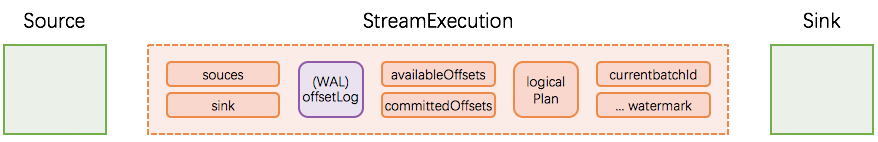
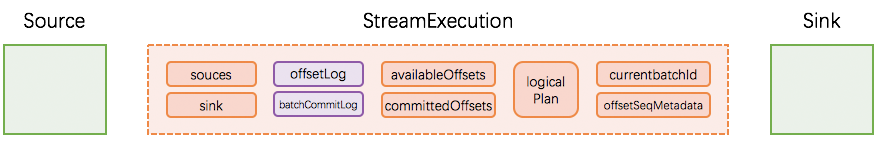
根据 Spark 2.1.1, 2.2.0 的新变化更新 Structured Streaming 源码解析

Changed region(s): [[0.2153, 0.4225, 0.4305, 0.8451], [0.6765, 0.7042, 0.7995, 0.7887], [0.3998, 0.4225, 0.4305, 0.4789]]

diff --git a/Structured Streaming 源码解析系列/2.2 Structured Streaming 之 Sink 解析.md b/Structured Streaming 源码解析系列/2.2 Structured Streaming 之 Sink 解析.md
@@ -6,7 +6,8 @@
 
 ```
 本文内容适用范围：
-* 2016.12.28 update, Spark 2.1 全系列 √ (已发布：2.1.0, 开发中：2.1.1-SNAPSHOT)
+* 2017.05.07 update, Spark 2.2 全系列 √ (即将发布：2.2.0)
+* 2017.05.02 update, Spark 2.1 全系列 √ (已发布：2.1.0, 2.1.1)
 ```
 
 
@@ -29,11 +30,12 @@ trait Sink {
 
 相比而言，前作 Spark Streaming 并没有对输出进行特别的抽象，而只是在 DStreamGraph [2] 里将一些 dstreams 标记为了 output。当需要 exactly-once 特性时，程序员可以根据当前批次的时间标识，来 ***自行维护和判断*** 一个批次是否已经执行过。
 
-进化到 Structured Streaming 后，显式地抽象出了 Sink，并提供了一些原生实现：
+进化到 Structured Streaming 后，显式地抽象出了 Sink，并提供了一些原生幂等的 Sink 实现：
 
 - 已支持
   - HDFS-compatible file system，具体实现是 FileStreamSink extends Sink
   - Foreach sink，具体实现是 ForeachSink extends Sink
+  - Kafka sink，具体实现是 KafkaSink extends Sink
 - 预计后续很快会支持
   - RDBMS
 
@@ -54,7 +56,7 @@ trait Sink {
      - 在故障恢复时，分两种情况讨论：
        - (i) 如果上次执行在本步 ***结束前即失效***，那么本次执行里 sink 应该完整写出计算结果
        - (ii) 如果上次执行在本步 ***结束后才失效***，那么本次执行里 sink 可以重新写出计算结果（覆盖上次结果），也可以跳过写出计算结果（因为上次执行已经完整写出过计算结果了）
-6. 在数据完整写出到 Sink 后，StreamExecution 通知 Source 可以废弃数据
+6. 在数据完整写出到 Sink 后，StreamExecution 通知 Source 可以废弃数据；然后把成功的批次 id 写入到 batchCommitLog
 
 ## Sink 的具体实现：HDFS-API compatible FS, Foreach
 
@@ -172,12 +174,82 @@ writeStream
       }
     }
   }
-}
 ```
 
 所以我们看到，foreach sink 需要使用者提供 writer，所以这里的可定制度就非常高。
 
 但是仍然需要注意，由于 foreach 的 writer 可能被 open() 多次，可能有多个 task 同时调用一个 writer。所以推荐 writer 一定要写成幂等的，如果 writer 不幂等、那么 Structured Streaming 框架本身也没有更多的办法能够保证 end-to-end exactly-once guarantees 了。
+
+### (c) 具体实现: Kafka
+
+Spark 2.1.1 版本开始加入了 KafkaSink，使得 Spark 也能够将数据写入到 kafka 中。
+
+通常我们使用如下方法写出到 kafka sink:
+
+```scala
+writeStream
+  .format("kafka")
+  .option("checkpointLocation", ...)
+  .outputMode(...)
+  .option("kafka.bootstrap.servers", ...) // 写出到哪个集群
+  .option("topic", ...) // 写出到哪个 topic
+```
+
+那么我们看这里 `KafkaSink` 具体的  `addBatch()` 实现是：
+
+```scala
+  // 来自：class KafkaSink extends Sink
+  // 版本：Spark 2.1.1, 2.2.0
+  override def addBatch(batchId: Long, data: DataFrame): Unit = {
+    if (batchId <= latestBatchId) {
+      logInfo(s"Skipping already committed batch $batchId")
+    } else {
+      // 主要是通过 KafkaWriter.write() 来做写出；
+      // 在 KafkaWriter.write() 里，主要是继续通过 KafkaWriteTask.execute() 来做写出
+      KafkaWriter.write(sqlContext.sparkSession,
+        data.queryExecution, executorKafkaParams, topic)
+      latestBatchId = batchId
+    }
+  }
+```
+
+那么我们继续看这里 `KafkaWriteTask` 具体的  `execute()` 实现是：
+
+```scala
+  // 来自：class KafkaWriteTask
+  // 版本：Spark 2.1.1, 2.2.0
+  def execute(iterator: Iterator[InternalRow]): Unit = {
+    producer = new KafkaProducer[Array[Byte], Array[Byte]](producerConfiguration)
+    while (iterator.hasNext && failedWrite == null) {
+      val currentRow = iterator.next()
+      // 这里的 projection 主要是构建 projectedRow，使得：
+      // 其第 0 号元素是 topic
+      // 其第 1 号元素是 key 的 binary 表示
+      // 其第 2 号元素是 value 的 binary 表示
+      val projectedRow = projection(currentRow)
+      val topic = projectedRow.getUTF8String(0)
+      val key = projectedRow.getBinary(1)
+      val value = projectedRow.getBinary(2)
+      if (topic == null) {
+        throw new NullPointerException(s"null topic present in the data. Use the " +
+        s"${KafkaSourceProvider.TOPIC_OPTION_KEY} option for setting a default topic.")
+      }
+      val record = new ProducerRecord[Array[Byte], Array[Byte]](topic.toString, key, value)
+      val callback = new Callback() {
+        override def onCompletion(recordMetadata: RecordMetadata, e: Exception): Unit = {
+          if (failedWrite == null && e != null) {
+            failedWrite = e
+          }
+        }
+      }
+      producer.send(record, callback)
+    }
+  }
+```
+
+这里我们需要说明的是，由于 Spark 本身会失败重做 —— 包括单个 task 的失败重做、stage 的失败重做、整个拓扑的失败重做等 —— 那么同一条数据可能被写入到 kafka 一次以上。由于 kafka 目前还不支持 transactional write，所以多写入的数据不能被撤销，会造成一些重复。当然 kafka 自身的高可用写入（比如写入 broker 了的数据的 ack 消息没有成功送达 producer，导致 producer 重新发送数据时），也有可能造成重复。
+
+在 kafka 支持 transactional write 之前，可能需要下游实现下去重机制。比如如果下游仍然是 Structured Streaming，那么可以使用 streaming deduplication 来获得去重后的结果。
 
 ## 总结
 
@@ -187,6 +259,7 @@ writeStream
 | :-----------------------------: | :------------------------------: | :----: | :--------------------------------------: |
 | **HDFS-compatible file system** |  ![checked](1.imgs/checked.png)  |  已支持   | 包括但不限于 text, json, csv, parquet, orc, ... |
 |    **ForeachSink** (自定操作幂等)     |  ![checked](1.imgs/checked.png)  |  已支持   |              可定制度非常高的 sink               |
+|            **Kafka**            | ![negative](1.imgs/negative.png) |  已支持   | Kafka 目前不支持幂等写入，所以可能会有重复写入<br/>（但推荐接着 Kafka 使用 streaming de-duplication 来去重） |
 |    **ForeachSink** (自定操作不幂等)    | ![negative](1.imgs/negative.png) |  已支持   |              不推荐使用不幂等的自定操作               |
 
 这里我们特别强调一下，虽然 Structured Streaming 也内置了 `console` 这个 Source，但其实它的主要用途只是在技术会议/讲座上做 demo，不应用于线上生产系统。

diff --git a/Structured Streaming 源码解析系列/4.2 Structured Streaming 之 Watermark 解析.md b/Structured Streaming 源码解析系列/4.2 Structured Streaming 之 Watermark 解析.md
@@ -6,7 +6,8 @@
 
 ```
 本文内容适用范围：
-* 2016.12.28 update, Spark 2.1 全系列 √ (已发布：2.1.0, 开发中：2.1.1-SNAPSHOT)
+* 2017.05.07 update, Spark 2.2 全系列 √ (即将发布：2.2.0)
+* 2017.05.02 update, Spark 2.1 全系列 √ (已发布：2.1.0, 2.1.1)
 ```
 
 
@@ -169,11 +170,11 @@ lastExecution.executedPlan.collect {
 
 ## 关于 watermark 的一些说明
 
-关于 Structured Streaming 的目前 watermark 机制，我们有几点一些说明：
+关于 Structured Streaming 的目前 watermark 机制，我们有几点说明：
 
 1. 再次强调，(a+) 在对 event time 做 *window()* + *groupBy().aggregation()* 即利用状态做跨执行批次的聚合，并且 (b+) 输出模式为 Append 模式或 Update 模式时，才需要 watermark，其它时候不需要；
 2. watermark 的本质是要帮助 StateStore 清理状态、不至于使 StateStore 无限增长；同时，维护 Append 正确的语义（即判断在何时某条结果不再改变、从而将其输出）；
-3. 目前 2.1 版本的 watermark 实现，是依靠最大 event time 减去一定 late threshold 得到的，尚未支持 Source 端提供的 watermark；
+3. 目前版本（Spark 2.2）的 watermark 实现，是依靠最大 event time 减去一定 late threshold 得到的，尚未支持 Source 端提供的 watermark；
    - 未来可能的改进是，从 Source 端即开始提供关于 watermark 的特殊信息，传递到 StreamExecution 中使用 [2]，这样可以加快 watermark 的进展，从而能更早的得到输出数据
 4. Structured Streaming 对于 watermark 的承诺是：(a) watermark 值不后退（包括正常运行和发生故障恢复时）；(b) watermark 值达到后，大多时候会在下一个执行批次输出结果，但也有可能延迟一两个批次（发生故障恢复时），上层应用不应该对此有依赖。
 

diff --git a/Structured Streaming 源码解析系列/4.1 Structured Streaming 之 Event Time 解析.md b/Structured Streaming 源码解析系列/4.1 Structured Streaming 之 Event Time 解析.md
@@ -6,7 +6,8 @@
 
 ```
 本文内容适用范围：
-* 2016.12.28 update, Spark 2.1 全系列 √ (已发布：2.1.0, 开发中：2.1.1-SNAPSHOT)
+* 2017.05.07 update, Spark 2.2 全系列 √ (即将发布：2.2.0)
+* 2017.05.02 update, Spark 2.1 全系列 √ (已发布：2.1.0, 2.1.1)
 ```
 
 
@@ -78,7 +79,7 @@ Append 的语义将保证，一旦输出了某条 key，未来就不会再输出
 
 #### (c) Update
 
-> 小节注：本节 Update 模式的相关内容适用于 ≥ Spark 2.1.1 版本 —— 官方已开发完成，但尚未正式发布
+Update 模式已在 Spark 2.1.1 及以后版本获得正式支持。 
 
 <p align="center"><img src="4.imgs/230.png"></p>
 
@@ -94,7 +95,7 @@ Append 的语义将保证，一旦输出了某条 key，未来就不会再输出
 
 ## 扩展阅读
 
-1. [Github: org/apache/spark/sql/catalyst/analysis/Analyzer.scala#TimeWindowing](https://github.com/apache/spark/blob/branch-2.1/sql/catalyst/src/main/scala/org/apache/spark/sql/catalyst/analysis/Analyzer.scala#L2223)
+1. [Github: org/apache/spark/sql/catalyst/analysis/Analyzer.scala#TimeWindowing](https://github.com/apache/spark/blob/v2.1.1/sql/catalyst/src/main/scala/org/apache/spark/sql/catalyst/analysis/Analyzer.scala#L2232)
 2. [Github: org/apache/spark/sql/catalyst/expressions/TimeWindow](https://github.com/apache/spark/blob/master/sql/catalyst/src/main/scala/org/apache/spark/sql/catalyst/expressions/TimeWindow.scala)
 
 ## 参考资料

diff --git a/Structured Streaming 源码解析系列/2.1 Structured Streaming 之 Source 解析.md b/Structured Streaming 源码解析系列/2.1 Structured Streaming 之 Source 解析.md
@@ -6,7 +6,8 @@
 
 ```
 本文内容适用范围：
-* 2016.12.28 update, Spark 2.1 全系列 √ (已发布：2.1.0, 开发中：2.1.1-SNAPSHOT)
+* 2017.05.07 update, Spark 2.2 全系列 √ (即将发布：2.2.0)
+* 2017.05.02 update, Spark 2.1 全系列 √ (已发布：2.1.0, 2.1.1)
 ```
 
 
@@ -57,7 +58,7 @@ trait Source  {
 4. StreamExecution 触发计算逻辑 logicalPlan 的优化与编译
 5. 把计算结果写出给 Sink
      - 注意这时才会由 Sink 触发发生实际的取数据操作，以及计算过程
-6. 在数据完整写出到 Sink 后，StreamExecution 通知 Source 可以废弃数据
+6. 在数据完整写出到 Sink 后，StreamExecution 通知 Source 可以废弃数据；然后把成功的批次 id 写入到 batchCommitLog
      - 这里是由 StreamExecution 调用 Source 的 `def commit(end: Offset): Unit`，即方法 (4)
      - `commit()` 方法主要是帮助 Source 完成 garbage-collection，如果外部数据源本身即具有 garbage-collection 功能，如 Kafka，那么在 Source 的具体 `commit()`  实现上即可为空、留给外部数据源去自己管理
 

diff --git a/Structured Streaming 源码解析系列/3.1 Structured Streaming 之状态存储解析.md b/Structured Streaming 源码解析系列/3.1 Structured Streaming 之状态存储解析.md
@@ -6,7 +6,8 @@
 
 ```
 本文内容适用范围：
-* 2016.12.28 update, Spark 2.1 全系列 √ (已发布：2.1.0, 开发中：2.1.1-SNAPSHOT)
+* 2017.05.07 update, Spark 2.2 全系列 √ (即将发布：2.2.0)
+* 2017.05.02 update, Spark 2.1 全系列 √ (已发布：2.1.0, 2.1.1)
 ```
 
 
@@ -82,11 +83,16 @@ StateStore 模块的总体思路：
     
   // 删除一条符合条件的 key-value
   def remove(condition: UnsafeRow => Boolean): Unit
+  // 根据 key 删除 key-value
+  def remove(key: UnsafeRow): Unit
   
   /* == 批量操作相关 =============================== */
     
   // 提交当前执行批次的所有修改，将刷出到 HDFS，成功后版本将自增
   def commit(): Long
+
+  // 放弃当前执行批次的所有修改
+  def abort(): Unit
     
   // 当前状态分片、当前版本的所有 key-value 状态
   def iterator(): Iterator[(UnsafeRow, UnsafeRow)]

diff --git a/Structured Streaming 源码解析系列/README.md b/Structured Streaming 源码解析系列/README.md
@@ -4,7 +4,8 @@
 
 ```
 本文内容适用范围：
-* 2016.12.28 update, Spark 2.1 全系列 √ (已发布：2.1.0, 开发中：2.1.1-SNAPSHOT)
+* 2017.05.07 update, Spark 2.2 全系列 √ (即将发布：2.2.0)
+* 2017.05.02 update, Spark 2.1 全系列 √ (已发布：2.1.0, 2.1.1)
 ```
 
 - *一、概述*
